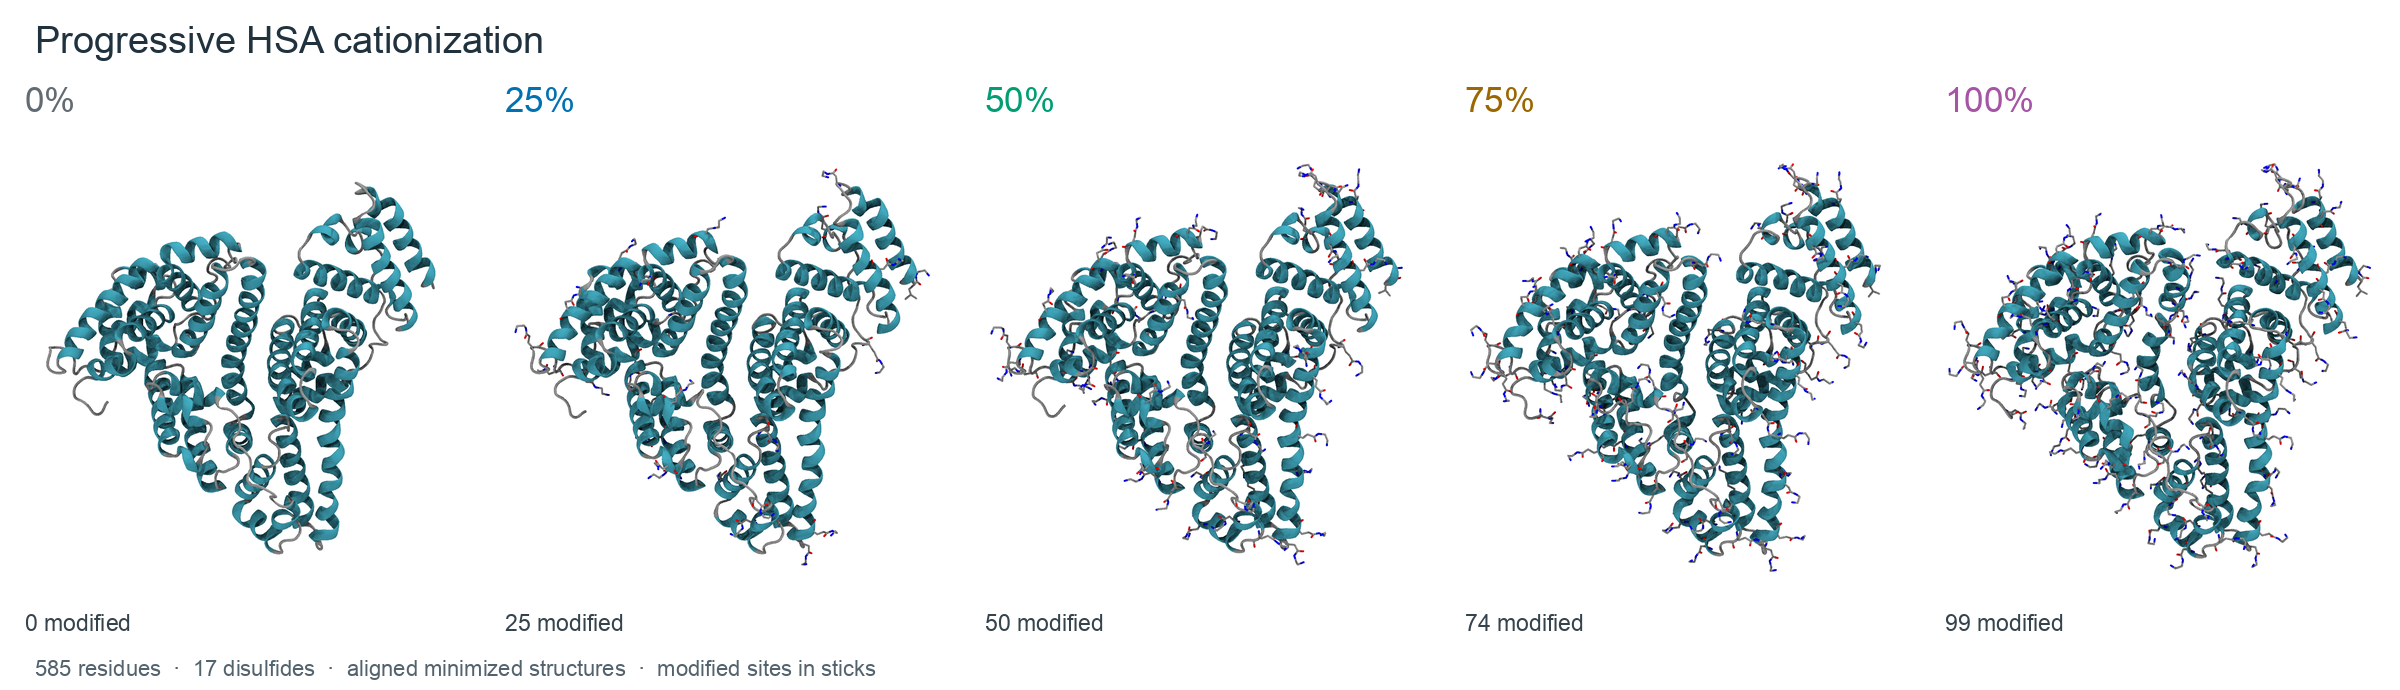
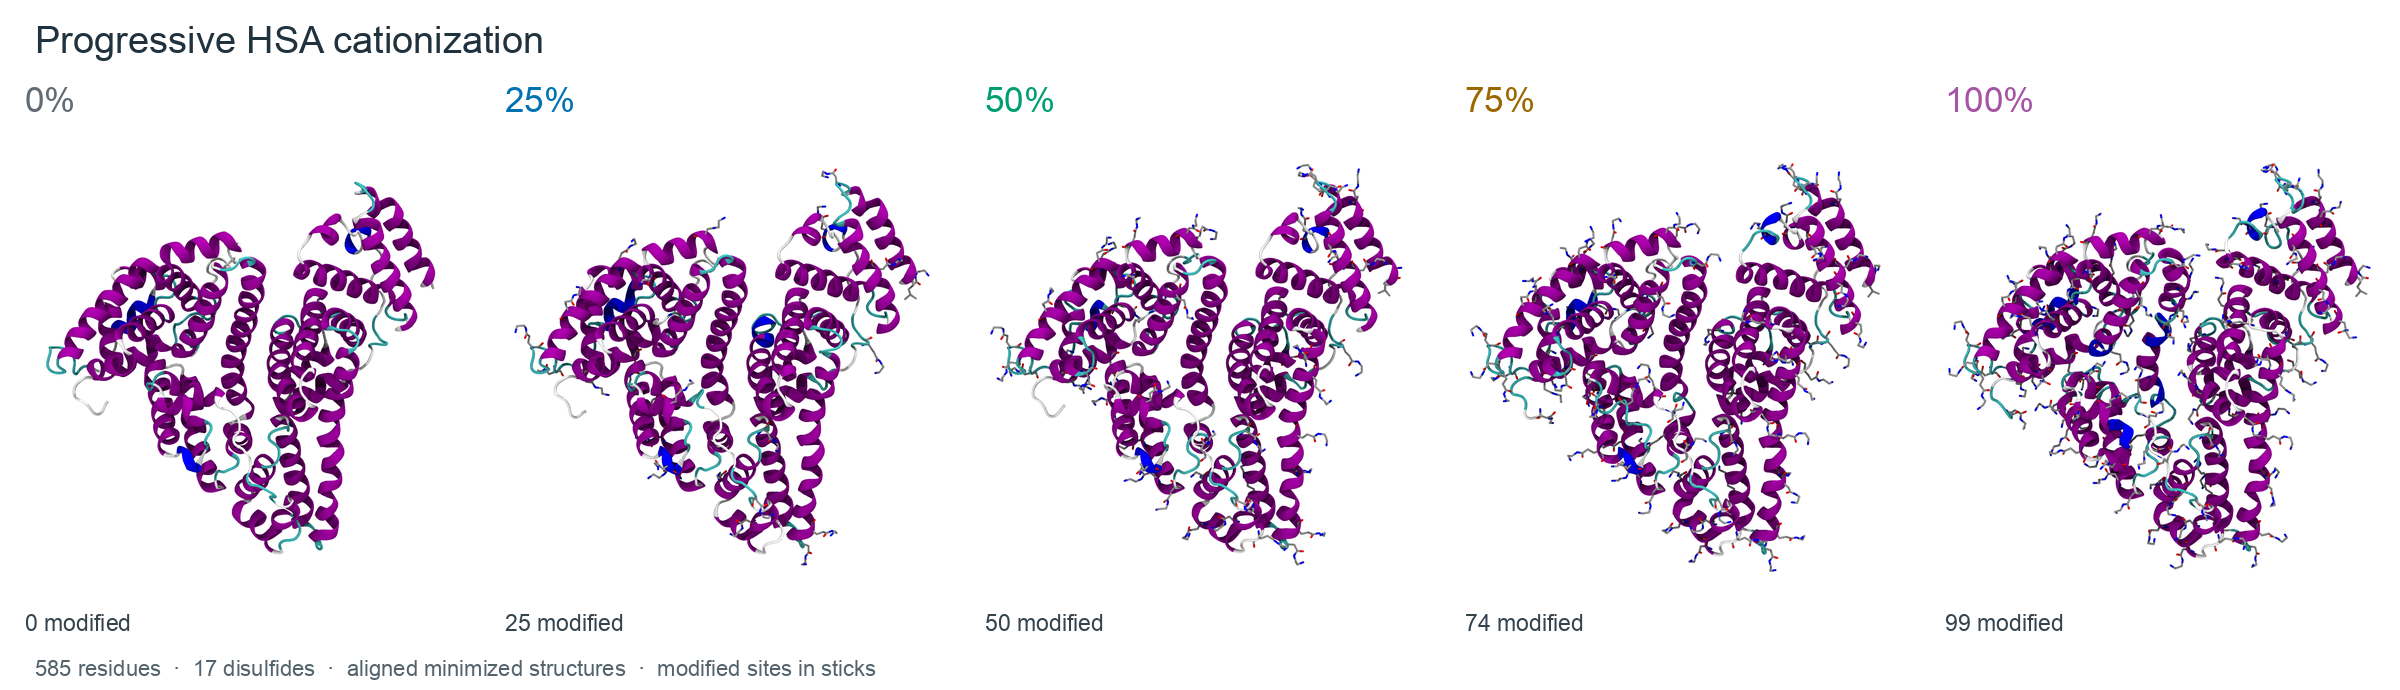
Improve options and HSA views

diff --git a/README.md b/README.md
@@ -8,7 +8,8 @@ parameters for Amber, OpenMM or GROMACS.
 </p>
 
 *Progressive HSA cationization: 0%, 25%, 50%, 75% and 100%.
-Modified residues are shown as sticks.*
+HSA is shown in VMD NewCartoon, colored by secondary structure with AOChalky
+material. Modified residues are shown in Licorice, colored by atom name.*
 
 The program converts carboxyl groups into `–C(=O)–NH–CH₂–CH₂–NH₃⁺`.
 It selects one site at a time from the electrostatic potential, rotates the
@@ -224,6 +225,23 @@ For inspection without changes, use `cationize-protein check input.pdb`.
 See [PDB preparation](docs/PDB_PREPARATION.md) and the
 [broken-input examples](examples/pdb_checks/README.md).
 
+To check known disulfide pairs against UniProt, use the downloaded JSON record:
+
+```sh
+cationize-protein fetch --uniprot P02768 --output hsa_reference
+cationize-protein prepare input.pdb --uniprot-record hsa_reference/uniprot.json \
+  --output prepared_with_disulfides
+```
+
+The sequence is mapped to the PDB before applying the annotations; residue
+numbers are not assumed to match. For mature HSA, UniProt Cys77–Cys86 maps to
+Cys53–Cys62. Verified pairs are written as CYX, SSBOND and CONECT records;
+thiol HG hydrogens on those pairs are removed. Heavy coordinates are retained.
+The output includes `disulfides.csv`, `uniprot_mapping.csv` and the reference
+JSON. Ambiguous sequences, conflicting partners and incompatible sulfur
+geometry stop preparation. Qualified or alternative-partner annotations require
+review; atom serials must be unique. See [supported disulfide assignments](docs/PDB_PREPARATION.md#disulfides-from-uniprot).
+
 ### Optional structure modeling
 
 PDBFixer remains the default. If whole residues are missing, an optional
@@ -354,19 +372,73 @@ a Poisson–Boltzmann calculation.
 
 ## Options
 
-| Option | Purpose |
-|---|---|
-| `--percentages 25 28 35` | Save a custom cumulative series |
-| `--ph 7.4` | Target pH; use the same value in `prepare` and `run` |
-| `--engine openmm` | Minimize with OpenMM; `amber`, `sander` and `pmemd` select installed serial Amber |
-| `--solver apbs` | Choose `apbs`, `pbsa` or the `coulomb` approximation |
-| `--force-field ff14SB` | Choose ff14SB, ff19SB or ff99SBildn |
-| `--formats amber openmm gromacs` | Choose output formats; Amber is the default |
-| `--probe-radius 1.369` | Positive probe LJ half-Rmin in Å |
-| `--protonation fixed` | Retain supplied protonation states |
+### Cationization: `run`
 
-Use `cationize-protein --help`, `prepare --help`, `model --help` or `run --help` for the full
-command descriptions. Advanced settings, installation troubleshooting and
+| Flag | Purpose, accepted values and requirements | Default |
+|---|---|---|
+| `--pdb FILE` | Native protein PDB; use this or `--topology`, not both. Prepare histidines and incomplete atoms first. | Required unless `--topology` is supplied |
+| `--topology FILE` | Protein-only Amber `parm7`/`prmtop`; requires `--coordinates`. Reading it does not require Amber executables. | Not used |
+| `--coordinates FILE` | Amber `rst7`/`inpcrd` coordinates for `--topology`. | Required with `--topology` |
+| `--output DIR` | New output directory, or the same verified run to resume. Existing results are checked before reuse. | Required |
+| `--percentages VALUES…` | Saved cumulative levels, for example `25 28 35`; values must be unique and between 0 and 100. Baseline 0% is always saved. | `25 50 75 100` |
+| `--engine NAME` | Minimizer: `openmm` is included; `amber` finds an installed serial `sander` or `pmemd`. `sander` and `pmemd` select that executable directly. | `openmm`* |
+| `--engine-executable FILE` | Path to serial `sander` or `pmemd` for the Amber engine. Requires an existing Amber/AmberTools installation. | Search PATH and AMBERHOME |
+| `--solver NAME` | Potential: `apbs` requires APBS; `pbsa` requires AmberTools/PBSA. `coulomb` is an included screened-Coulomb approximation. | `apbs`* |
+| `--apbs FILE` | Path to an installed APBS executable; used with `--solver apbs`. | Private installation, PATH, then a saved executable path |
+| `--pbsa FILE` | Path to an installed PBSA executable; used with `--solver pbsa`. | Private installation, PATH, then a saved executable path |
+| `--force-field NAME` | Protein parameters: `ff14SB`, `ff19SB` or `ff99SBildn`. Included through OpenMM; Amber executables are not needed to assign/export them. | `ff14SB`* |
+| `--formats VALUES…` | Parameter exports: `amber`, `openmm`, `gromacs`; multiple values are accepted. Export does not require the corresponding engine. PDB and OpenMM XML/JSON are always retained. | `amber` |
+| `--protonation NAME` | `propka` audits native protonation at baseline and after each chemical step; `fixed` retains supplied states. PROPKA is included. Introduced ammonium groups remain +1 in both modes. | `propka` |
+| `--ph VALUE` | Target pH, from 0 to 14; use the same value in `prepare` and `run`. | `7.4` |
+| `--probe-radius VALUE` | Positive probe Lennard-Jones half-Rmin in Å; separate from the PB electrolyte ion radius. | `1.369` Å |
+| `--parameters DIR` | Custom validated residue library directory. | Bundled library |
+
+*For a new interactive run, omitted engine, solver and force field are selected
+at a prompt. The table shows fresh-install defaults; saved preferences can
+override them. A resumed run uses its recorded settings. External programs
+are not installed when a flag is selected: follow [Connect optional software](#connect-optional-software).
+
+### Preparation, retrieval and modeling
+
+| Flag | Purpose, accepted values and requirements | Default |
+|---|---|---|
+| `prepare --uniprot-record FILE` | Local `uniprot.json` from `fetch`; maps and verifies known intrachain disulfides. No network access is needed during preparation. | Not used; supplied disulfides and geometric detection remain available |
+| `prepare --protonation NAME` | `propka` assigns histidine charge states; `fixed` retains supplied states. PDBFixer, OpenMM and PROPKA are included. | `propka` |
+| `prepare --ph VALUE` | pH for initial histidine assignment, from 0 to 14. | `7.4` |
+| `fetch --pdb ID` | Download deposited PDB coordinates; internet access is required. Can be combined with `--uniprot`. | No PDB downloaded unless requested |
+| `fetch --uniprot ID` | Download a UniProt sequence, annotations and disulfide table; internet access is required. Can be used alone. | No UniProt record downloaded unless requested |
+| `model --method NAME` | `modeller` requires an installed MODELLER and its licence; `esmfold` requires a separate ESMFold2/PyTorch environment and model weights. | Required |
+| `model --fasta FILE` | Complete native sequence of one chain. | Required |
+| `model --pdb FILE` | Incomplete native template for MODELLER. | Required for `modeller`; unused for `esmfold` |
+| `model --python FILE` | Python interpreter containing the chosen optional modeler. | Explicit environment variable, then discovery in the active Python and PATH |
+| `model --esmfold-model NAME` | ESMFold2 checkpoint: `fast` or `full`; both currently use the single-sequence interface. | `fast` |
+| `model --model-revision VALUE` | Hugging Face revision; a commit hash pins the weights. | `main` |
+| `model --device NAME` | `auto`, `cpu` or `cuda`; CUDA requires compatible PyTorch and an available NVIDIA GPU. | `auto`: CUDA if available, otherwise CPU |
+| `--output DIR` | Required for `prepare`, `fetch` and `model`; each needs a new directory. | Required |
+
+### Advanced `run` settings
+
+| Flag | Purpose, accepted values and requirements | Default |
+|---|---|---|
+| `--platform NAME` | OpenMM platform: `CPU`, `Reference`, `CUDA` or `OpenCL`. GPU platforms require the matching hardware and OpenMM platform. | `CPU` |
+| `--temperature VALUE` | Temperature of the electrostatic calculation, in K. | `298` K |
+| `--solute-dielectric VALUE` | Protein interior dielectric for PB. | `2` |
+| `--solvent-dielectric VALUE` | Solvent dielectric for PB. | `78.5` |
+| `--salt VALUE` | Monovalent salt concentration for potential ranking, in M. Minimization uses unscreened GBn2. | `0.15` M |
+| `--pb-ion-radius VALUE` | Electrolyte ion radius for PB, in Å. | `2` Å |
+| `--pb-spacing VALUE` | Maximum fine-grid spacing for PB, in Å. | `0.75` Å |
+| `--sampling-spacing VALUE` | Spacing of the local probe lattice, in Å. | `1` Å |
+| `--pbsa-nonlinear` | Use nonlinear PBSA; requires `--solver pbsa` and installed PBSA. APBS already uses nonlinear PB. | Off; PBSA uses linear ICCG |
+| `--keep-maps` | Keep potential DX maps produced at each APBS step. | Off |
+| `--beam-width VALUE` | Number of steric-search candidates retained. | `8` |
+| `--max-iterations VALUE` | Maximum iterations per minimization. | `20000` |
+| `--restraint VALUE` | Native backbone/disulfide positional restraint strength, in kcal/(mol Å²). | `10` kcal/(mol Å²) |
+| `--tolerance VALUE` | Minimization RMS force target, in kcal/(mol Å). | `0.1` kcal/(mol Å) |
+| `--verbose` | Print additional diagnostic messages. | Off |
+
+Use `cationize-protein --help` to list commands, or
+`cationize-protein COMMAND --help` for a specific command, for example
+`cationize-protein prepare --help`. Installation troubleshooting and
 scientific qualification are documented in
 [installation](docs/INSTALL.md), [methods](docs/METHODS.md),
 [force fields](docs/FORCE_FIELDS.md) and [validation](docs/VALIDATION.md).

diff --git a/docs/VALIDATION.md b/docs/VALIDATION.md
@@ -13,7 +13,7 @@ calculations still require an installed solver; no alternative model is
 silently selected. Conda and venv recipes install the same project, but creation
 of a new Conda environment was not executed in this validation.
 
-The installed package passed **246 tests, with no skips**, including initial
+The installed package passed **265 tests, with no skips**, including initial
 PDB repair, PROPKA histidine assignment, residue-library export, retrieval and
 optional modeling interfaces. The earlier Linux run passed 202 tests before PDBFixer
 preparation was added; the new preparation tests have currently run on macOS.
@@ -160,3 +160,28 @@ accuracy for full HSA or arbitrary missing loops. The full ESMFold2 checkpoint,
 MSA conditioning and mixed-precision inference remain untested. Automatic
 local grafting of predicted loops is not implemented; the optional command
 generates an explicitly identified full native candidate.
+
+## UniProt disulfide assignment
+
+The installed `prepare --uniprot-record` command was tested on the native
+585-residue HSA model with all CYX labels changed to CYS and the supplied
+SSBOND/CONECT records removed in a private test copy. Exact sequence matching
+mapped the chain to canonical UniProt P02768 positions 25–609. All 17 annotated
+pairs were recovered, including canonical Cys77–Cys86 mapped to mature
+Cys53–Cys62. The output contained 34 CYX residues, retained every supplied heavy
+coordinate and preserved the original input and reference bytes. Default
+PROPKA assignment covered 16 histidines; subsequent ff14SB assignment passed.
+
+Eighteen focused tests cover sequence ambiguity/mismatch, partial constructs,
+insertion codes, homomers, matching and conflicting supplied SSBOND records,
+sulfur geometry, thiol H removal, uncertain/qualified annotations, malformed
+records, duplicate atom serials and noncontiguous chain blocks. Final graph
+verification checks sulfur partners and actual topology-chain identity.
+Independent review findings were reproduced and fixed before the installed
+full suite was run.
+
+The README's 21 command examples parse with the current CLI, and 20 documented
+`run` defaults were checked against argparse. HSA PNG/GIF previews were rendered
+again with NewCartoon, standard VMD Structure colors and AOChalky; the personal
+`.vmdrc` was bypassed, STRIDE completed without errors, and source structure
+hashes were unchanged.
